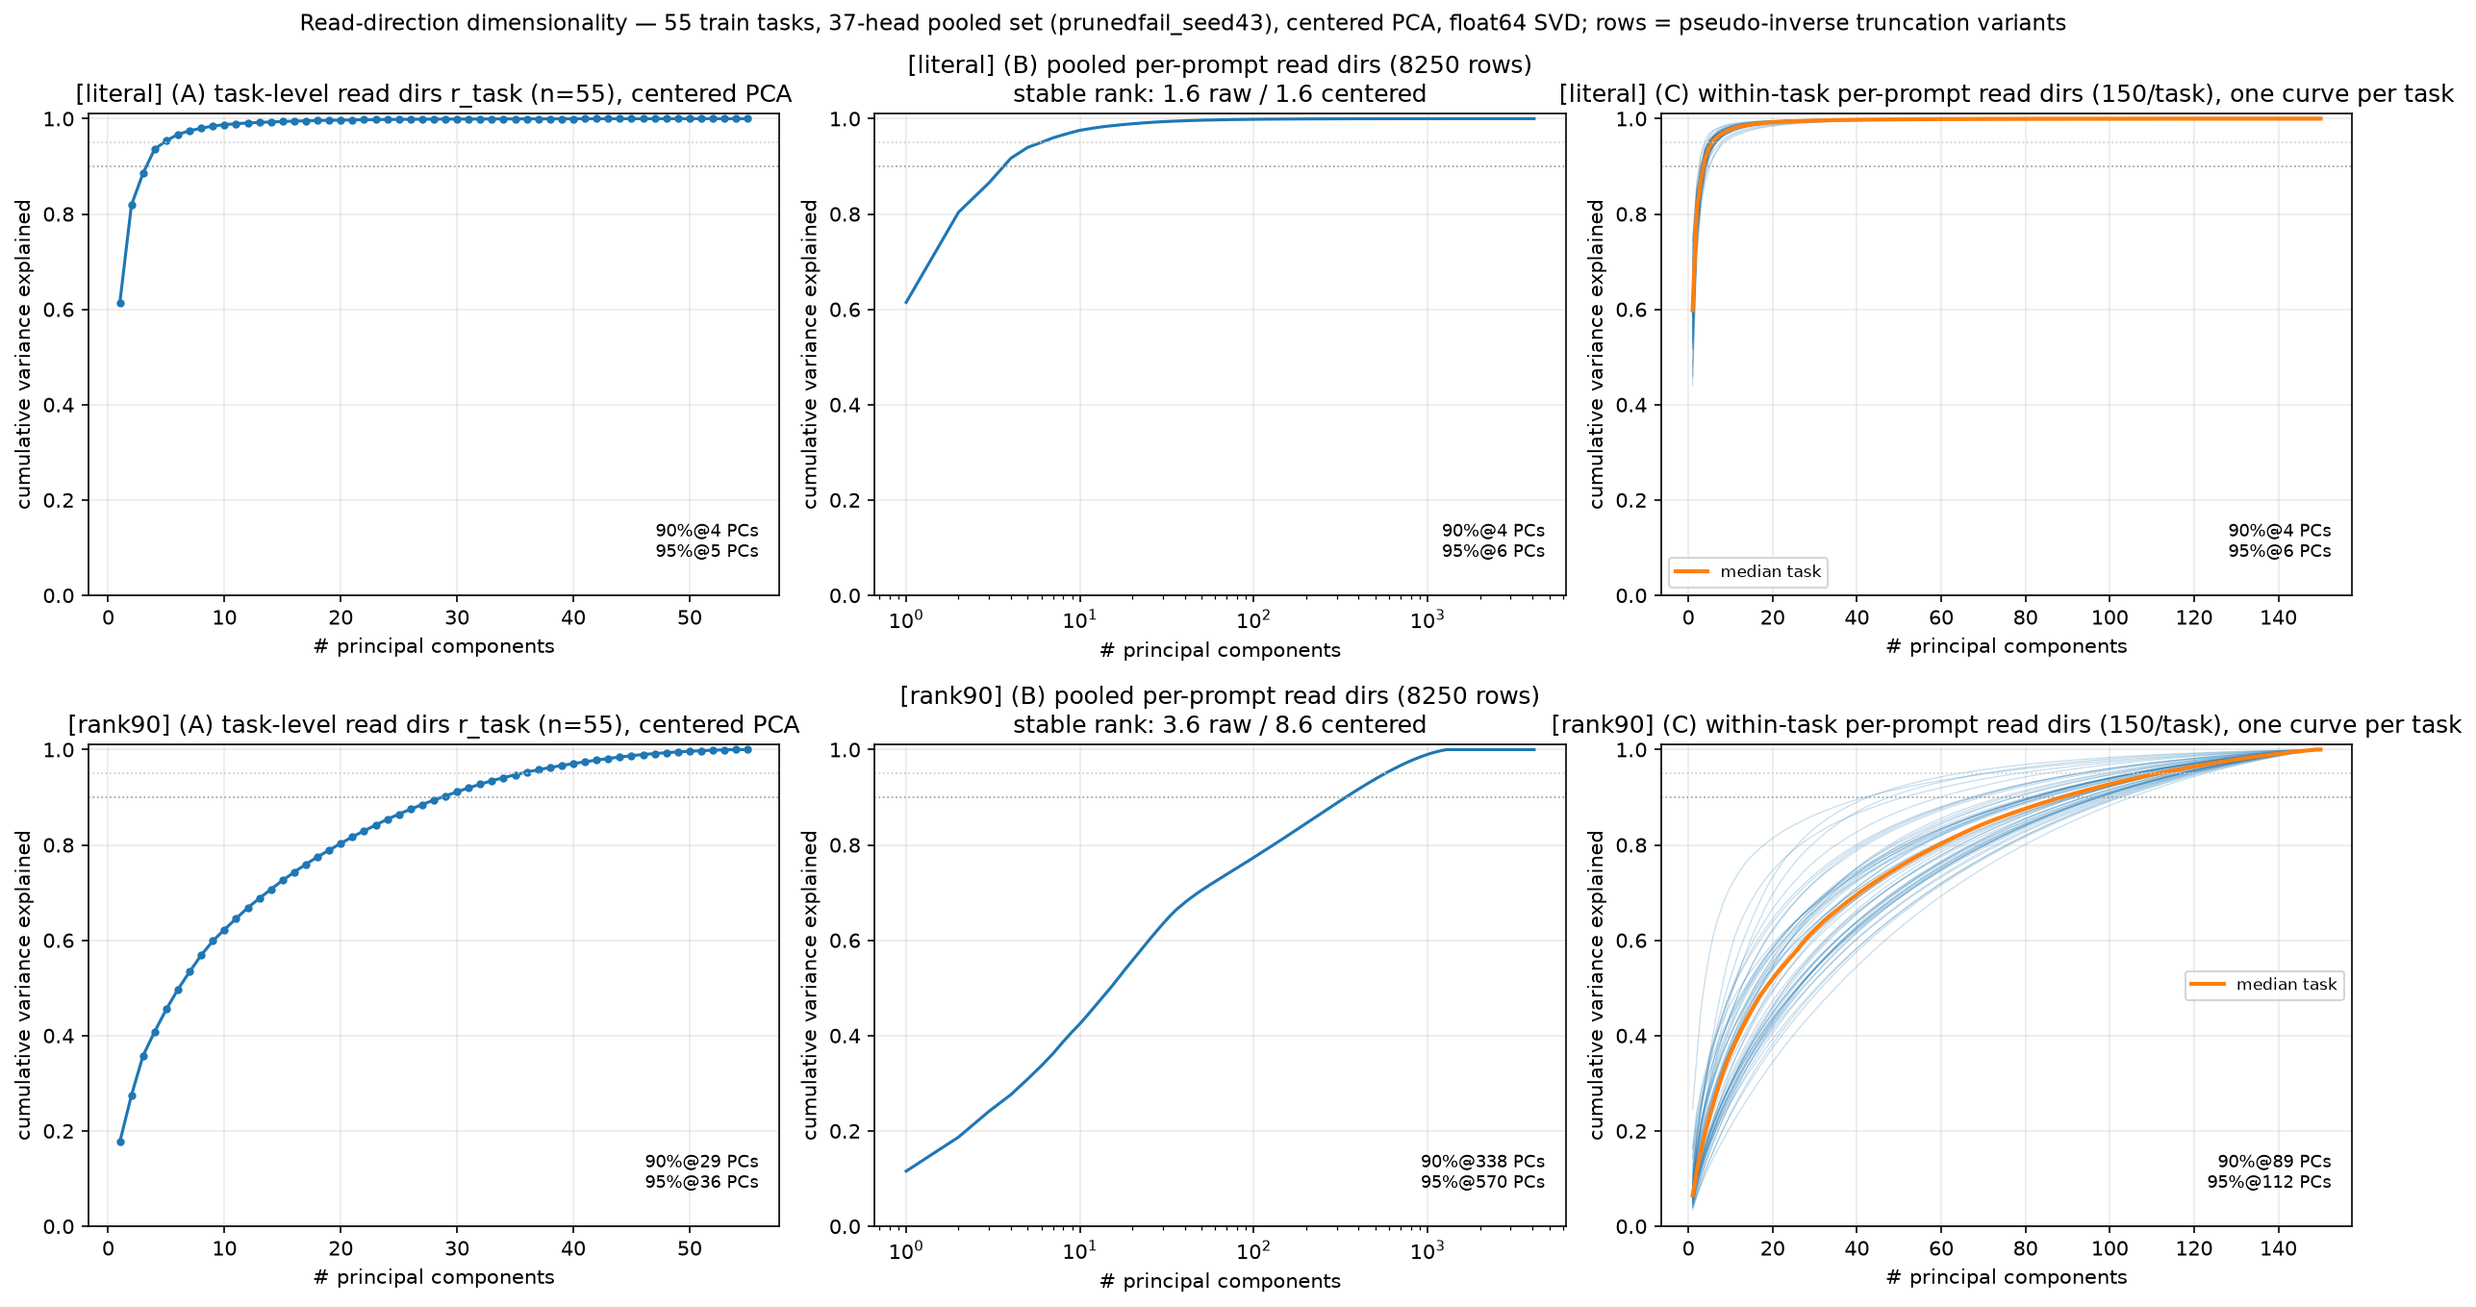
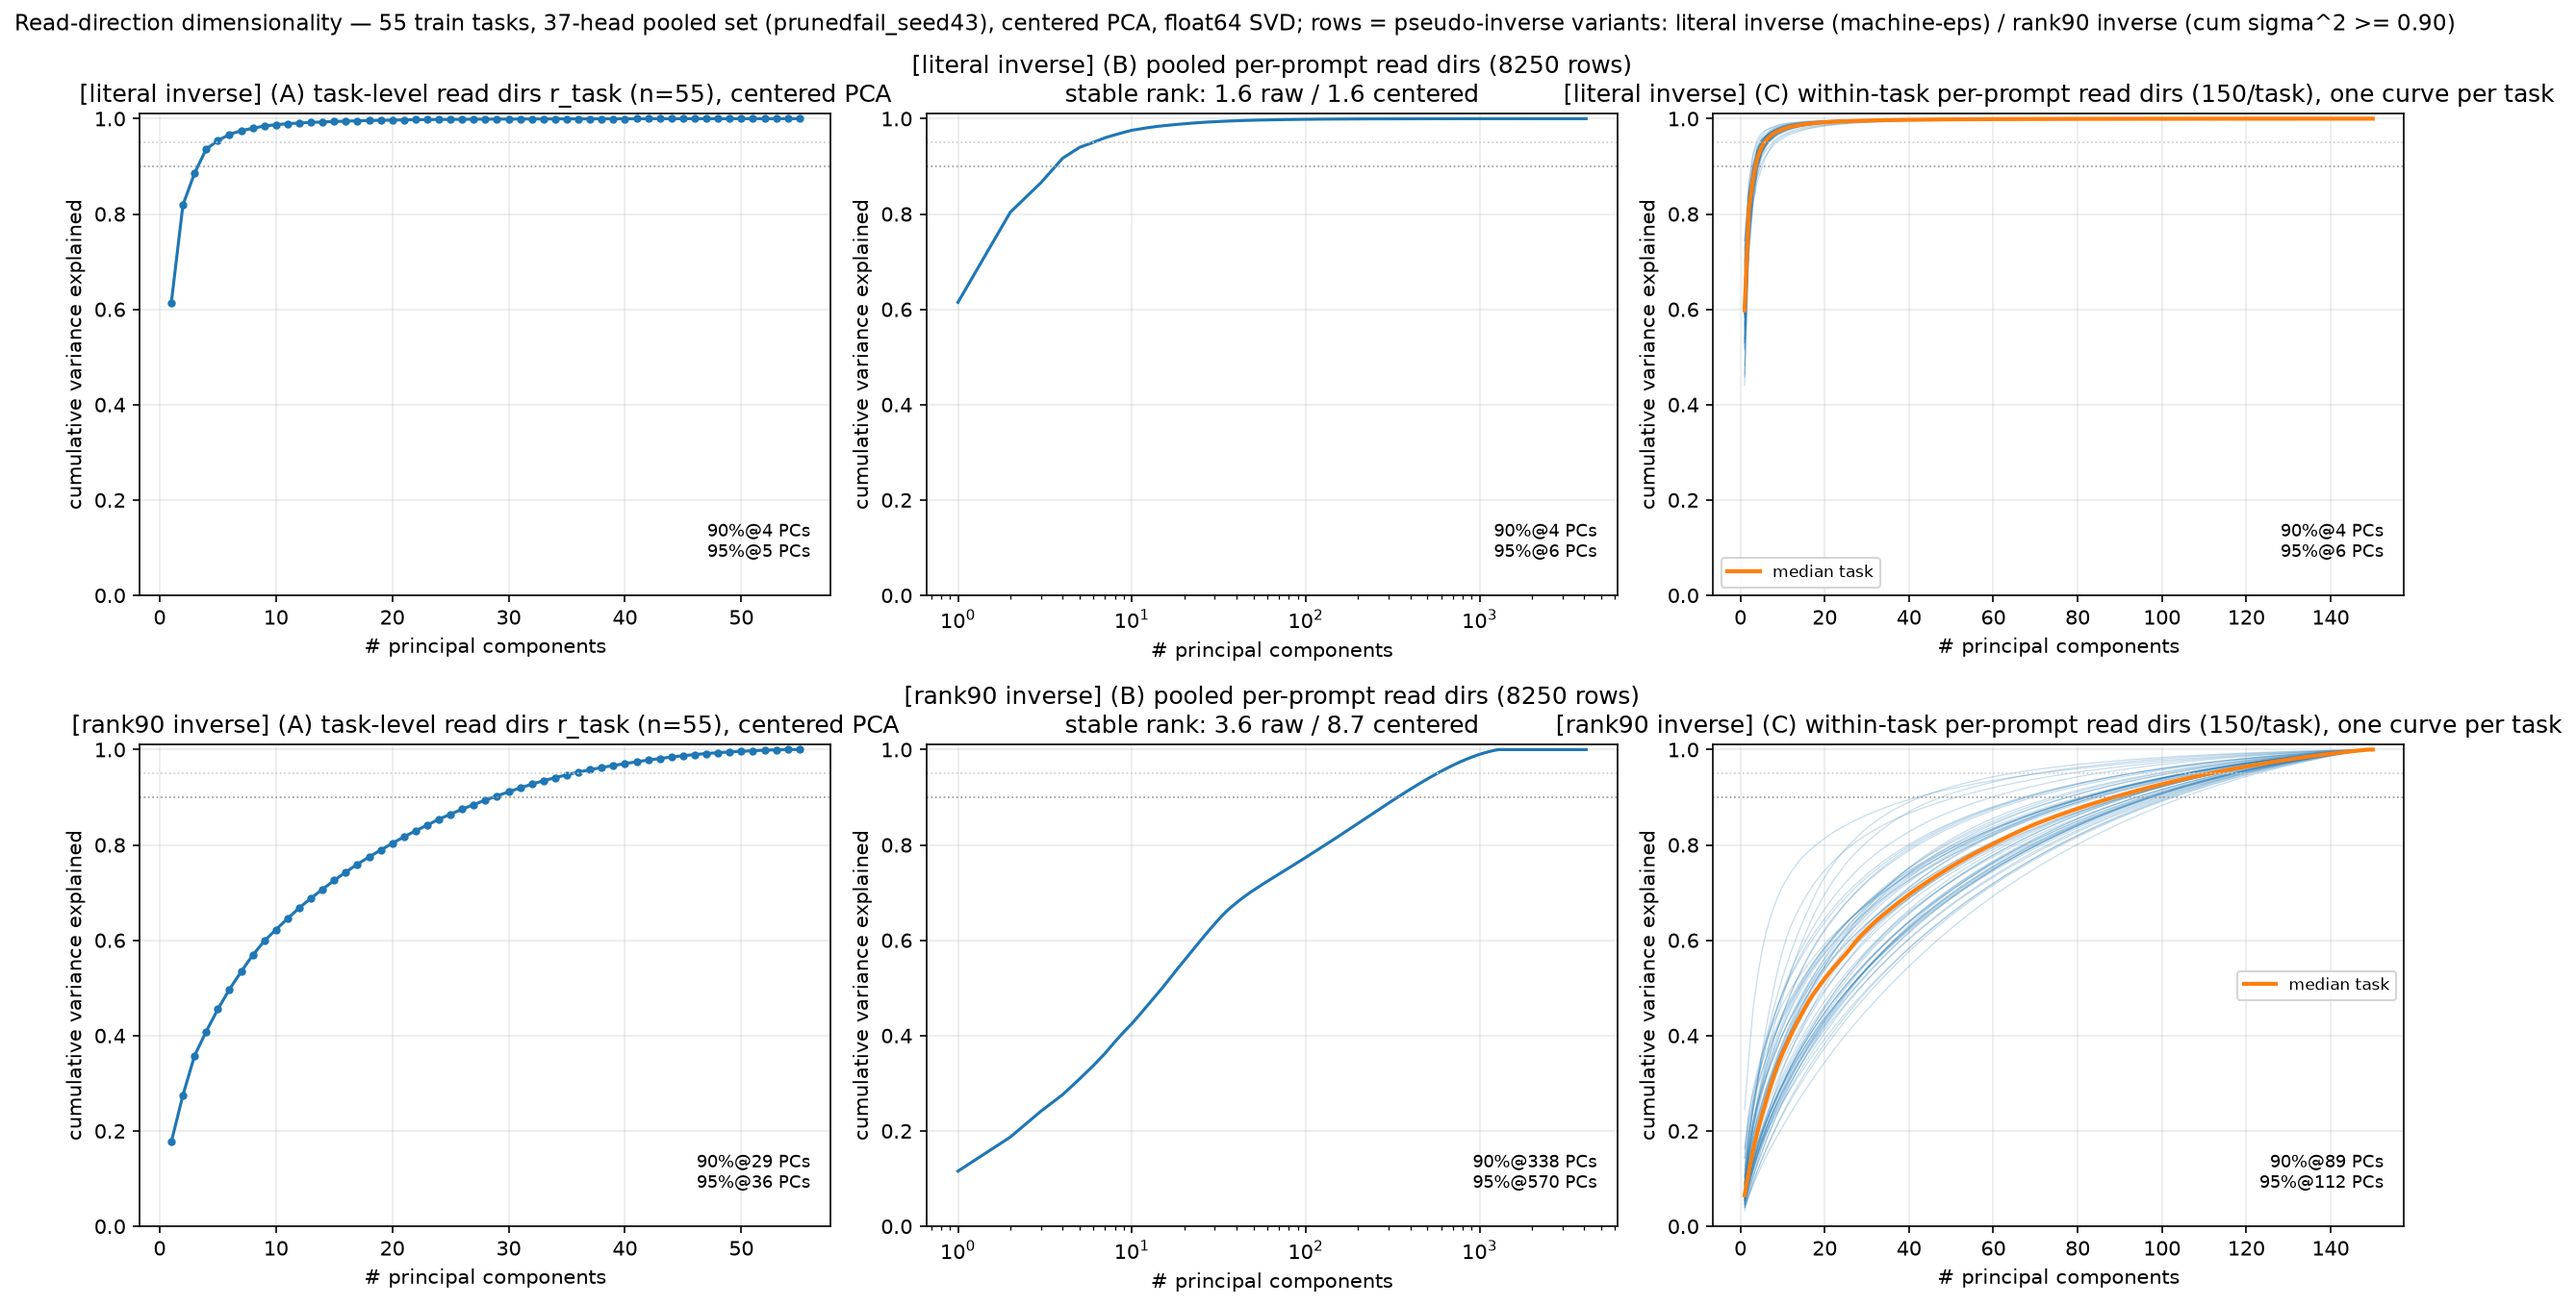
Relabel read-dir geometry rows as 'literal inverse' / 'rank90 inverse'

diff --git a/src/eval_scripts/plot_69_read_dir_dimensionality.py b/src/eval_scripts/plot_69_read_dir_dimensionality.py
@@ -95,20 +95,21 @@ def main():
 
         npz.update({f"{v}_s_rtask": s_task, f"{v}_s_pooled": s_pool,
                     f"{v}_within_cum": within})
+        vlabel = f"{v} inverse"
         ax = axes[vi, 0]
         ax.plot(np.arange(1, len(cum_task) + 1), cum_task, "o-", ms=3, color="tab:blue")
-        ax.set_title(f"[{v}] (A) task-level read dirs r_task (n={len(train)}), centered PCA")
+        ax.set_title(f"[{vlabel}] (A) task-level read dirs r_task (n={len(train)}), centered PCA")
         ax = axes[vi, 1]
         ax.plot(np.arange(1, len(cum_pool) + 1), cum_pool, "-", color="tab:blue")
         ax.set_xscale("log")
-        ax.set_title(f"[{v}] (B) pooled per-prompt read dirs ({stack.shape[0]} rows)\n"
+        ax.set_title(f"[{vlabel}] (B) pooled per-prompt read dirs ({stack.shape[0]} rows)\n"
                      f"stable rank: {sr_raw:.1f} raw / {sr_cent:.1f} centered")
         ax = axes[vi, 2]
         for cum_w in within:
             ax.plot(np.arange(1, len(cum_w) + 1), cum_w, "-", lw=0.6, alpha=0.25, color="tab:blue")
         ax.plot(np.arange(1, len(med) + 1), med, "-", lw=2, color="tab:orange", label="median task")
         ax.legend(fontsize=8)
-        ax.set_title(f"[{v}] (C) within-task per-prompt read dirs (150/task), one curve per task")
+        ax.set_title(f"[{vlabel}] (C) within-task per-prompt read dirs (150/task), one curve per task")
         for ax, cum in zip(axes[vi], (cum_task, cum_pool, med)):
             for frac, c in ((0.90, "#999999"), (0.95, "#cccccc")):
                 ax.axhline(frac, ls=":", lw=0.8, color=c)
@@ -133,7 +134,8 @@ def main():
     np.savez_compressed(OUT_DIR / "spectra.npz", **npz)
     fig.suptitle("Read-direction dimensionality — 55 train tasks, 37-head pooled set "
                  "(prunedfail_seed43), centered PCA, float64 SVD; rows = pseudo-inverse "
-                 "truncation variants", fontsize=11)
+                 "variants: literal inverse (machine-eps) / rank90 inverse (cum sigma^2 >= 0.90)",
+                 fontsize=11)
     fig.tight_layout()
     fig.savefig(OUT_DIR / "read_dir_dimensionality.png", bbox_inches="tight")
 
